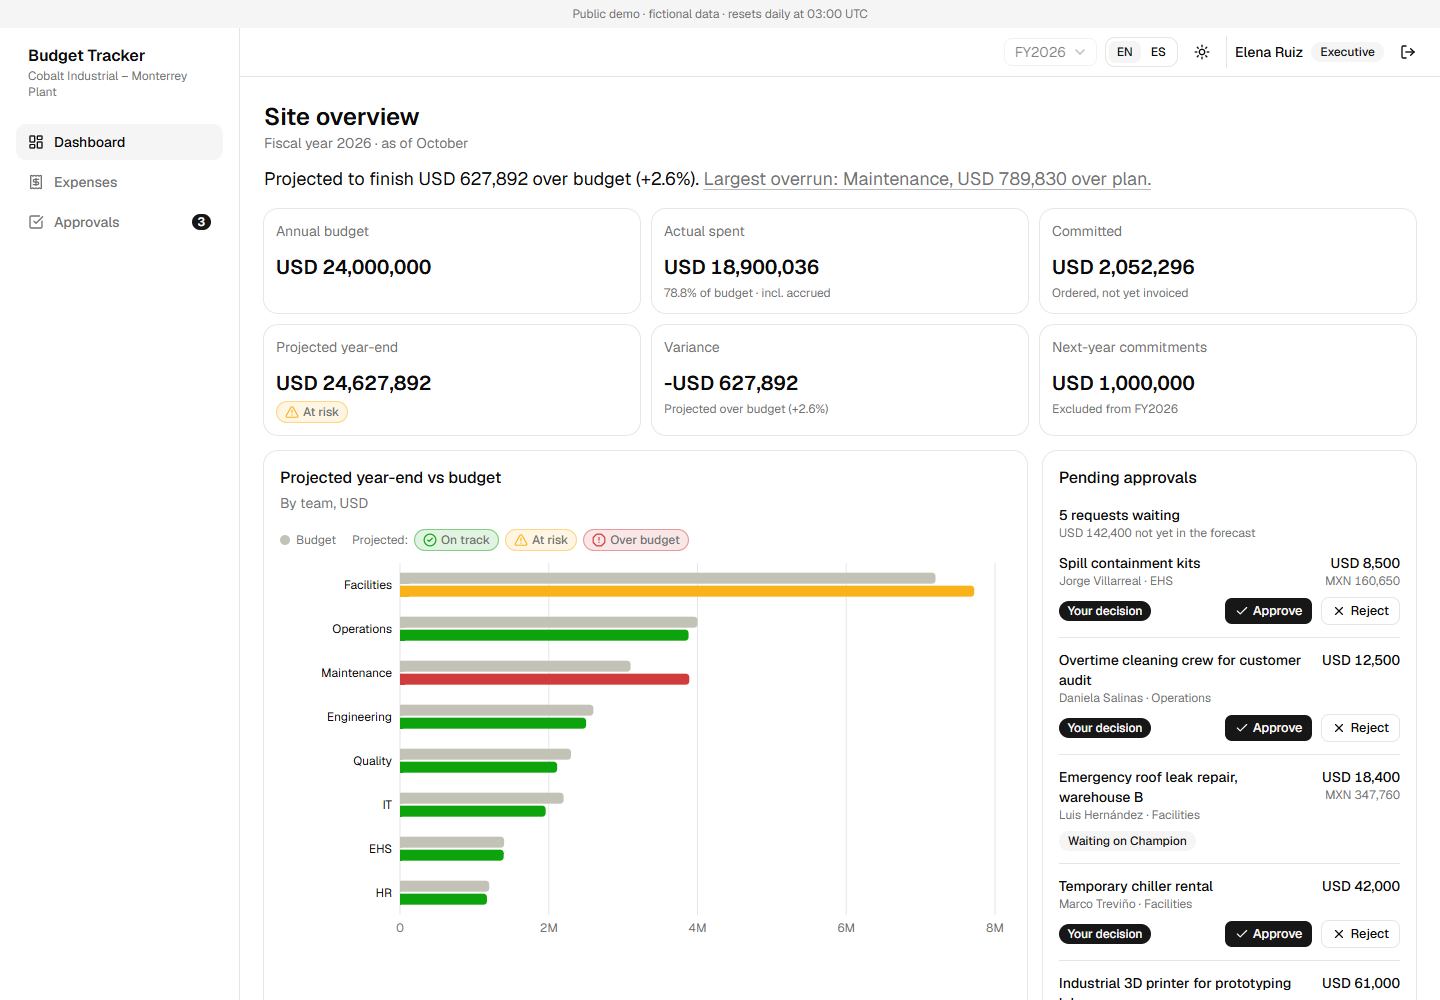
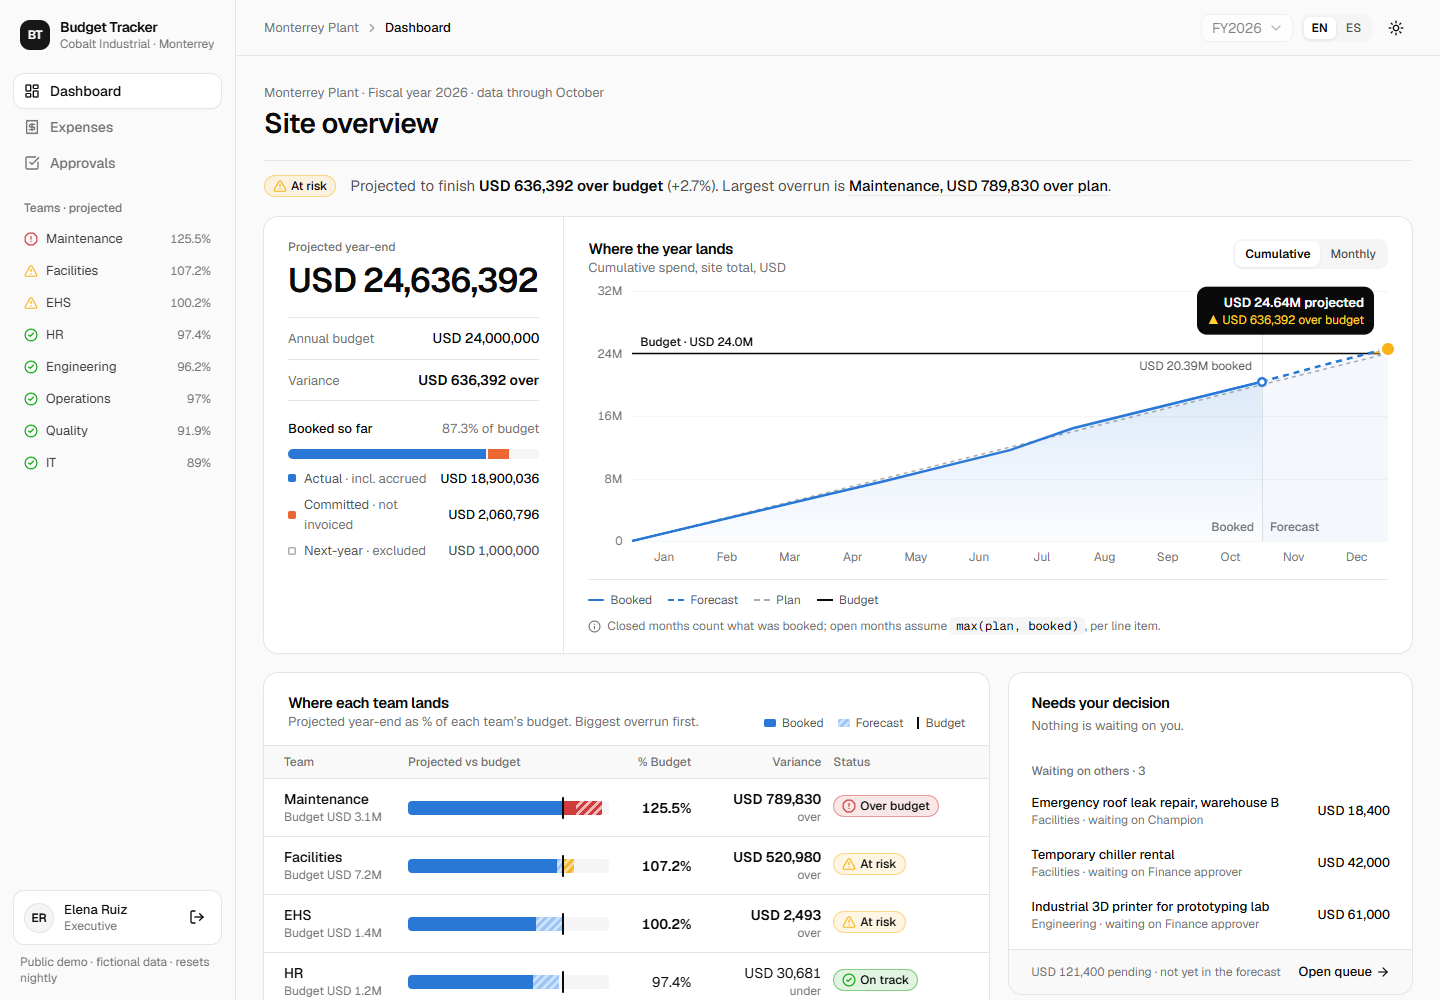
Refresh dashboard screenshot; fix three contrast regressions
Lighthouse accessibility on the v3 dashboard dropped to 97 (EN/ES,
light/dark): future-month heat-map headers at 60% muted ink, and the
inactive segment of the locale switch and the Cumulative/Monthly toggle
(muted text on a muted track, ~4.3:1). Both now meet 4.5:1; all four
configurations score 100 again.

diff --git a/src/components/dashboard/forecast-chart.tsx b/src/components/dashboard/forecast-chart.tsx
@@ -135,7 +135,7 @@ export function ForecastChart({
               type="button"
               aria-pressed={view === v}
               onClick={() => setView(v)}
-              className="h-[26px] rounded-md px-2.5 text-xs font-medium text-muted-foreground aria-pressed:bg-card aria-pressed:font-semibold aria-pressed:text-foreground aria-pressed:shadow-xs"
+              className="h-[26px] rounded-md px-2.5 text-xs font-medium text-foreground/70 aria-pressed:bg-card aria-pressed:font-semibold aria-pressed:text-foreground aria-pressed:shadow-xs"
             >
               {t(v)}
             </button>

diff --git a/src/components/dashboard/heat-map.tsx b/src/components/dashboard/heat-map.tsx
@@ -83,7 +83,6 @@ export async function HeatMap({ rows, selectedMonth }: { rows: HeatRow[]; select
                   className={`flex h-5 items-center rounded-full px-[7px] tabular-nums ${
                     m === CURRENT_MONTH ? "bg-foreground font-semibold text-background"
                     : m === selectedMonth ? "font-semibold text-foreground underline underline-offset-4"
-                    : m > CURRENT_MONTH ? "text-muted-foreground/60"
                     : "text-muted-foreground"
                   }`}
                 >

diff --git a/src/components/locale-switch.tsx b/src/components/locale-switch.tsx
@@ -21,7 +21,7 @@ export async function LocaleSwitch() {
           value={o.locale}
           size="xs"
           variant="ghost"
-          className={o.locale === locale ? "bg-card font-semibold shadow-xs hover:bg-card" : "text-muted-foreground"}
+          className={o.locale === locale ? "bg-card font-semibold shadow-xs hover:bg-card" : "text-foreground/70"}
           aria-pressed={o.locale === locale}
           lang={o.locale}
         >
